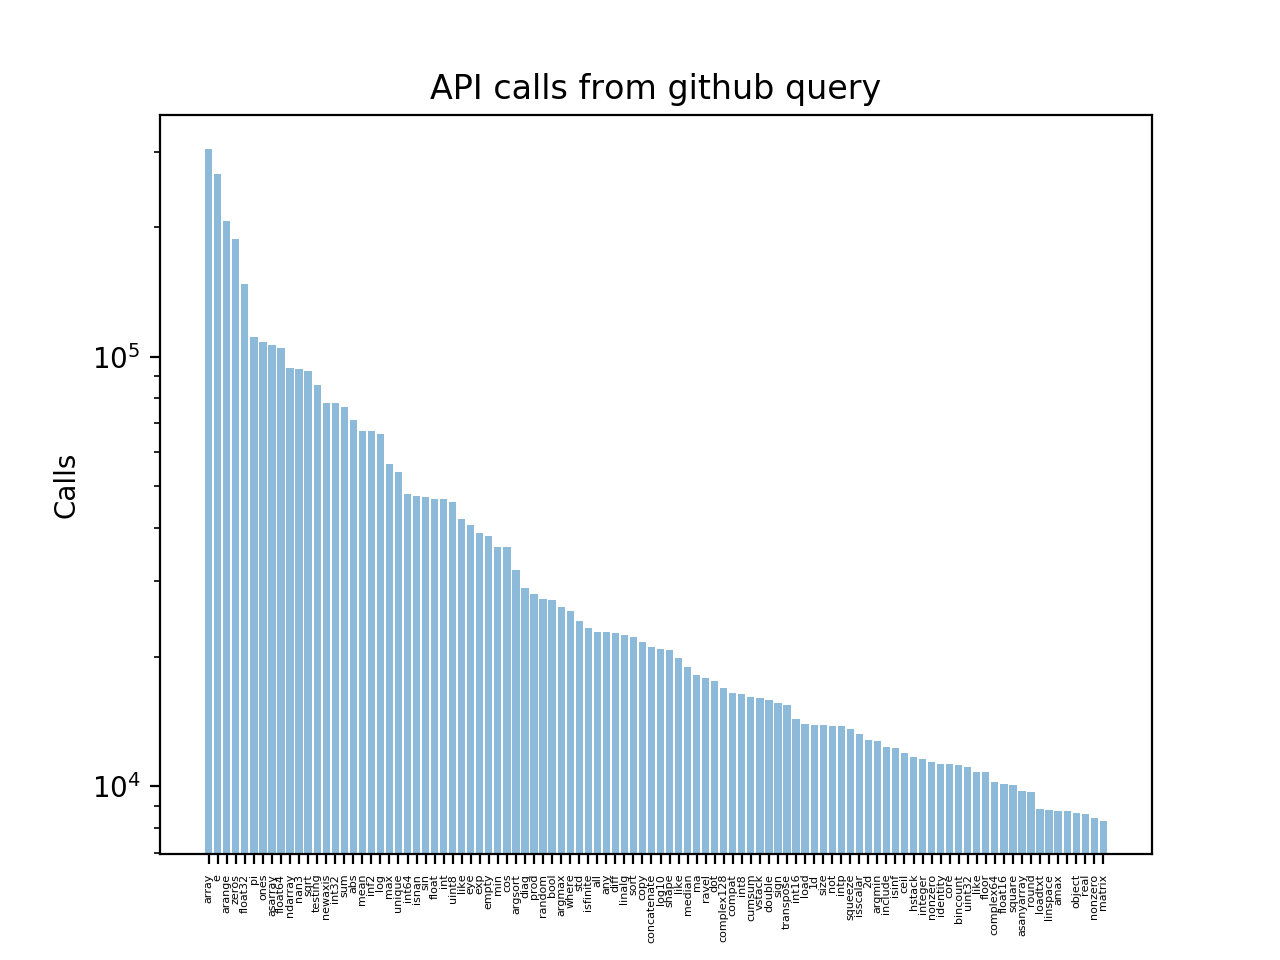
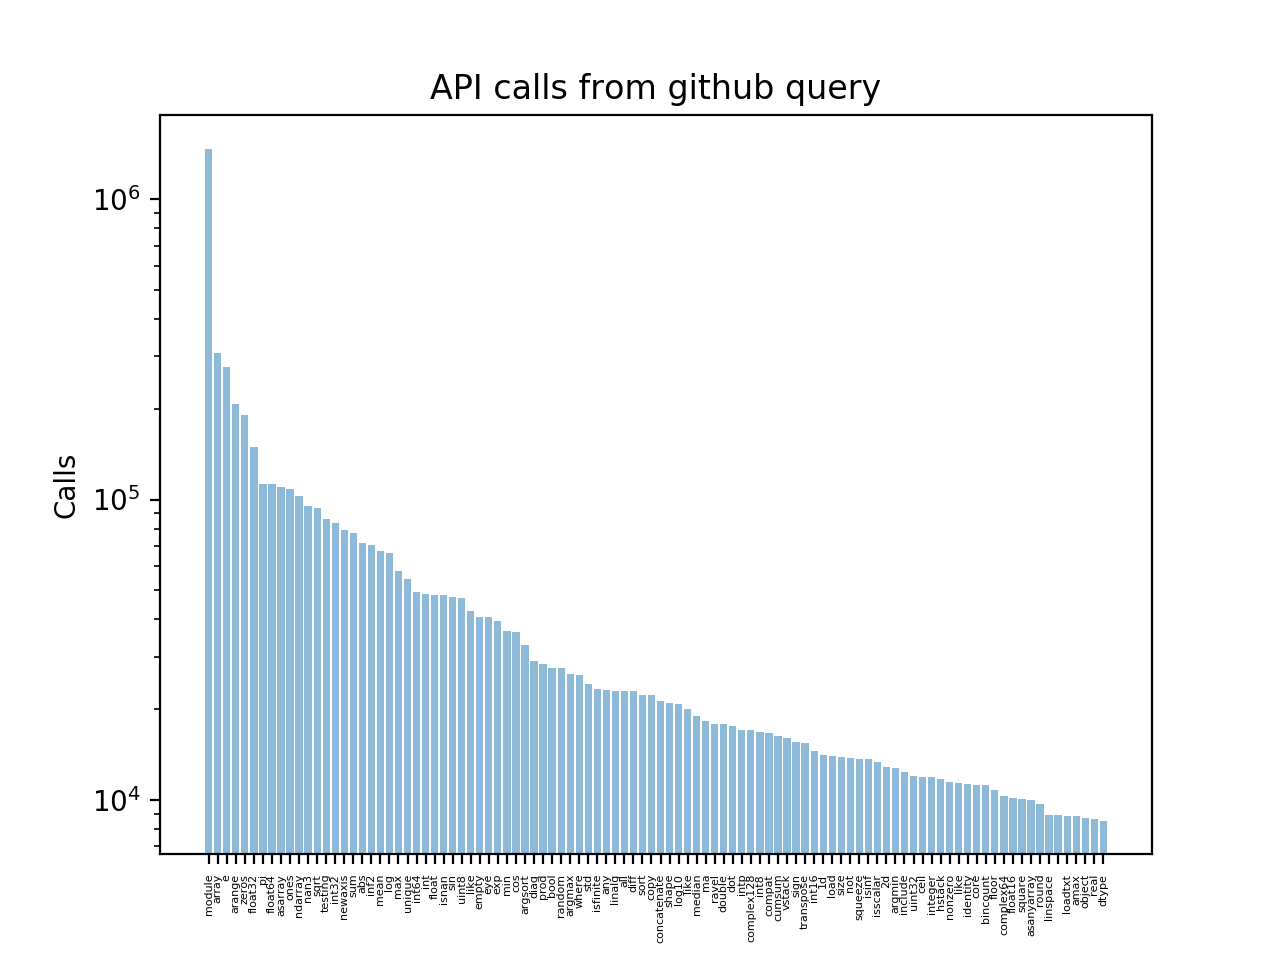
"quick bug fix for dictionary types"

diff --git a/api_stats/numpy_api_stats/numpy_stats.py b/api_stats/numpy_api_stats/numpy_stats.py
@@ -1,7 +1,7 @@
 import numpy as np
 from pandas import read_csv as pd_read_csv
 from pandas import DataFrame
-from google.cloud import bigquery
+#from google.cloud import bigquery
 def select(api,ttype):
         if ttype=='function':
             return [(x[0],x[1].__name__) for x in api if x[1] is type(lambda x: x)]
@@ -24,6 +24,10 @@ def build_api_list(api,typelist=['ufunc']):
     
 
     api_list = [(x[0],x[1].__name__) for x in api]
+
+    # Add main numpy module for nomalization
+    api_list.append(('numpy','module'))
+
     df_api = DataFrame(api_list,columns = ['label','type'])
 
     df_api.set_index('type',inplace=True)
@@ -62,7 +66,7 @@ class API_QUERY_FACTORY:
                         build_py_content(content_table_name=self.content_table,
                         join=join_py(file_table = self.file_table))
                                      )) 
-        self.count_query = build_countAPIs(api_list,api_table='[apt-footing-235018.NumpyAPI.ohNulllllll]')
+        self.count_query = build_countAPIs(api_list,api_table='[apt-footing-235018.NumpyAPI.latest_numpy]')
 
 def groupby(x):
     y = {}
@@ -165,17 +169,19 @@ def build_py_query(file_table = '[bigquery-public-data:github_repos.sample_files
 f.path LIKE '%.py' 
 OR
 f.path LIKE '%.ipynb'
+OR
+f.path LIKE '%.pyx'
 ) '''
-    return '\n'.join(['SELECT', '*', 'FROM',file_table + ' AS f','WHERE',w1string])
+    return '\n'.join(['SELECT', 'repo_name, path, f.id', 'FROM',file_table + ' AS f','WHERE',w1string])
 
 def nest_table(t):
     return '('+t+')'
 
 def build_py_content(content_table_name='[bigquery-public-data:github_repos.sample_contents]',join=''):
-    return '\n'.join(['SELECT','*','FROM',content_table_name + ' AS c',join])
+    return '\n'.join(['SELECT','c.id, content,binary,repo_name,path','FROM',content_table_name + ' AS c',join])
 
 def join_py(file_table = '[bigquery-public-data:github_repos.sample_files]'):
-    return '\n'.join(['INNER JOIN',nest_table(build_py_query(file_table = file_table))+' AS p','ON','c.id = p.id'])
+    return '\n'.join(['INNER JOIN',nest_table(build_py_query(file_table = file_table))+' AS p','ON','c.id = p.id','WHERE binary = False'])
 
 def get_numpyAPI_function_list(client):
     query_job = client.query( build_getAPItable_query() )  # API request
@@ -190,7 +196,10 @@ def detect_fun(f):
     return  f'(np\.|numpy\.){f}\(\s?[A-Za-z0-9_.\(\)]*\s?\)'
 
 def detect_mod(m):
-    return f'(import\s+numpy\.{m}|from\s+numpy\s+import\s+{m}|from\s+numpy\.{m} import\s+[A-za-z0-9_.]+)'
+    if m=='numpy':
+        return f'import\s+numpy'
+    else:
+        return f'(import\s+numpy\.{m}|from\s+numpy\s+import\s+{m}|from\s+numpy\.{m} import\s+[A-za-z0-9_.]+)'
 
 def detect_float(f):
     # if f.lower()=='nan':
@@ -237,26 +246,38 @@ def detect_misc(f):
     elif f in ['print_function','absolute_import','division']:
         return f'(np\.|numpy\.){f}'
     elif f=='sctypeDict':
-        tstring='|'.join([ str(x) if type(x) is int else f'\\\'{x}\\\'' for x in np.sctypeDict.keys() ])
+        #TODO FIX BETTER
+        return f'(np\.|numpy\.){f}\['
+        #tstring='|'.join([ str(x) if type(x) is int else f'\\\'{x}\\\'' for x in np.sctypeDict.keys() ])
        # tstring = tstring.replace('?','\?')
-        return f'(np\.|numpy\.){f}\[\s?{tstring}\s?\]' 
+        #return f'(np\.|numpy\.){f}\[\s?{tstring}\s?\]' 
     elif f=='sctypes': 
-        tstring='|'.join([ f'\\\'{x}\\\'' for x in np.sctypes.keys()])
-        return f'(np\.|numpy\.){f}\[\s?({tstring})\s?\]'
+        #TODO FIX BETTER
+        return f'(np\.|numpy\.){f}\['
+        #tstring='|'.join([ f'\\\'{x}\\\'' for x in np.sctypes.keys()])
+        #return f'(np\.|numpy\.){f}\[\s?({tstring})\s?\]'
     elif f=='typeDict': 
-        tstring='|'.join([ str(x) if type(x) is int else f'\\\'{x}\\\'' for x in np.typeDict.keys() ])
-        return f'(np\.|numpy\.){f}\[\s?{tstring}\s?\]'  
+        #TODO FIX BETTER
+        return f'(np\.|numpy\.){f}\['
+        #tstring='|'.join([ str(x) if type(x) is int else f'\\\'{x}\\\'' for x in np.typeDict.keys() ])
+        #return f'(np\.|numpy\.){f}\[\s?{tstring}\s?\]'  
     elif f=='typecodes':
-        tstring='|'.join([ f'\\\'{x}\\\'' for x in np.typecodes.keys()])
-        return f'(np\.|numpy\.){f}\[\s?({tstring})\s?\]' 
+        #TODO FIX BETTER
+        return f'(np\.|numpy\.){f}\['
+        #tstring='|'.join([ f'\\\'{x}\\\'' for x in np.typecodes.keys()])
+        #return f'(np\.|numpy\.){f}\[\s?({tstring})\s?\]' 
     elif f=='sctypeNA': 
-        tstring='|'.join([ f'\\\'{x}\\\'' if type(x) is str else f'(np\.|numpy\.){x.__name__}' for x in np.sctypeNA.keys()])
-        tstring = tstring.replace('?','\?')
-        return f'(np\.|numpy\.){f}\[\s?{tstring}\s?\]' 
+        #TODO FIX BETTER
+        return f'(np\.|numpy\.){f}\['
+        #tstring='|'.join([ f'\\\'{x}\\\'' if type(x) is str else f'(np\.|numpy\.){x.__name__}' for x in np.sctypeNA.keys()])
+        #tstring = tstring.replace('?','\?')
+        #return f'(np\.|numpy\.){f}\[\s?{tstring}\s?\]' 
     elif f=='typeNA': 
-        tstring='|'.join([ f'\\\'{x}\\\'' if type(x) is str else f'(np\.|numpy\.){x.__name__}' for x in np.typeNA.keys()])
-        tstring = tstring.replace('?','\?') 
-        return f'(np\.|numpy\.){f}\[\s?{tstring}\s?\]' 
+        #TODO FIX BETTER
+        return f'(np\.|numpy\.){f}\['
+        #tstring='|'.join([ f'\\\'{x}\\\'' if type(x) is str else f'(np\.|numpy\.){x.__name__}' for x in np.typeNA.keys()])
+        #tstring = tstring.replace('?','\?') 
+        #return f'(np\.|numpy\.){f}\[\s?{tstring}\s?\]'
     else:
         print("What the type you talkin' bout?")
         return NotImplementedError
